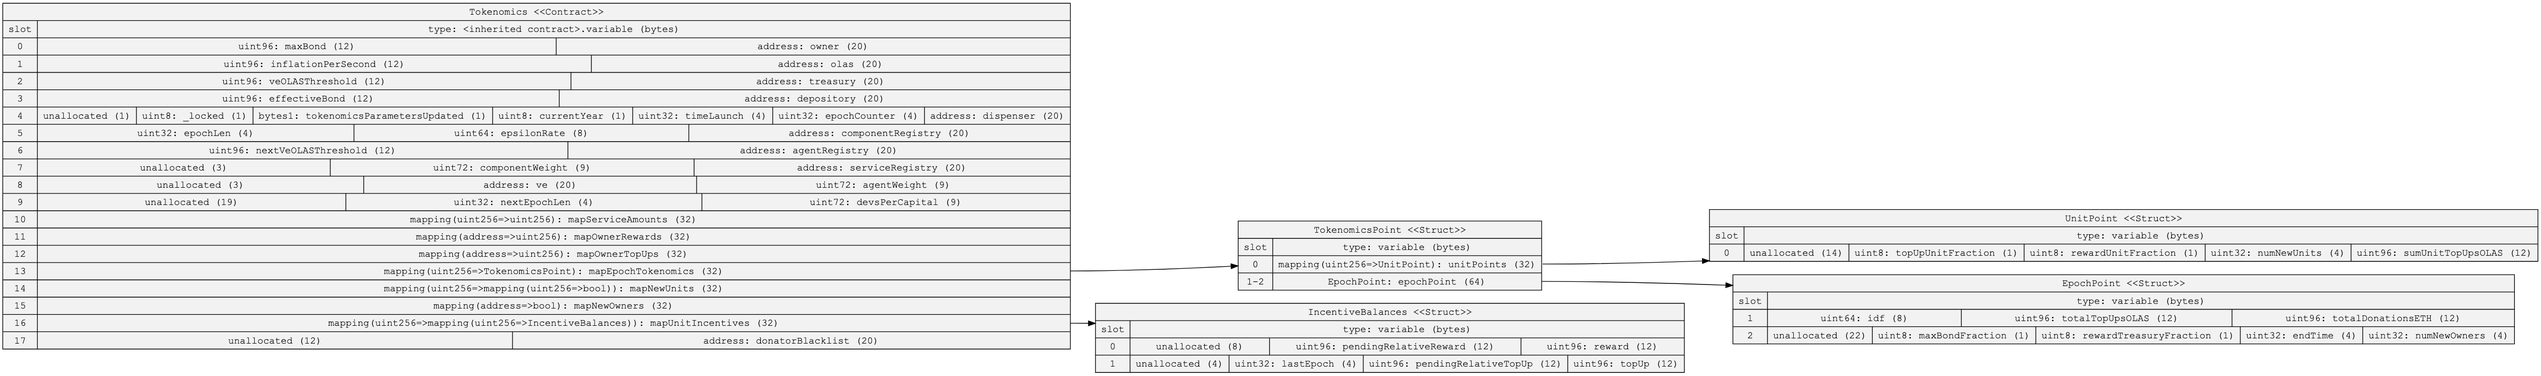
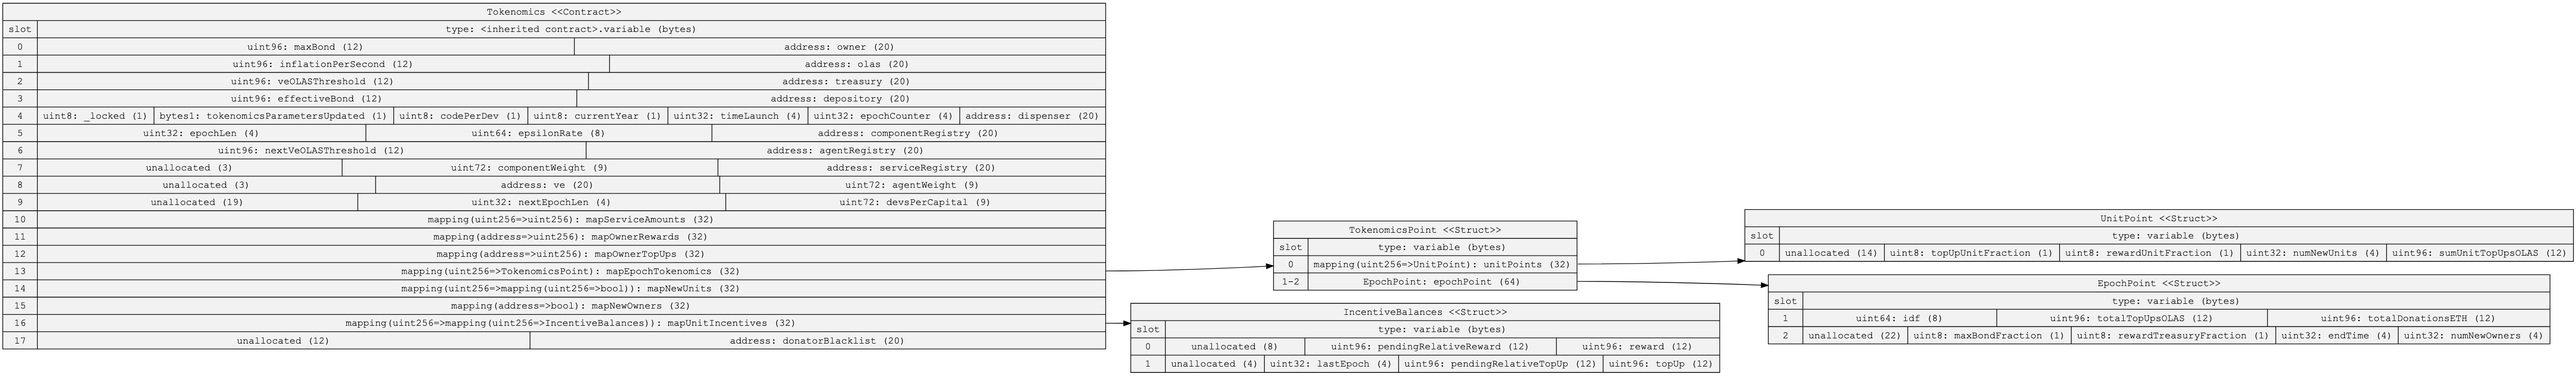
refactor: fKD calculation for the IDF value

diff --git a/test/Tokenomics.js b/test/Tokenomics.js
@@ -245,13 +245,13 @@ describe("Tokenomics", async () => {
             const lessThanMinEpochLen = Number(await tokenomics.MIN_EPOCH_LENGTH()) - 1;
             // Trying to change tokenomics parameters from a non-owner account address
             await expect(
-                tokenomics.connect(signers[1]).changeTokenomicsParameters(10, 10, epochLen * 2, 10, 10, 10)
+                tokenomics.connect(signers[1]).changeTokenomicsParameters(10, 10, 10, epochLen * 2, 10, 10, 10)
             ).to.be.revertedWithCustomError(tokenomics, "OwnerOnly");
 
             // Trying to set epoch length smaller than the minimum allowed value
-            await tokenomics.changeTokenomicsParameters(10, 10, lessThanMinEpochLen, 10, 10, 10);
+            await tokenomics.changeTokenomicsParameters(10, 10, 10, lessThanMinEpochLen, 10, 10, 10);
             // Trying to set epoch length bigger than one year
-            await tokenomics.changeTokenomicsParameters(10, 10, oneYear + 1, 10, 10, 10);
+            await tokenomics.changeTokenomicsParameters(10, 10, 10, oneYear + 1, 10, 10, 10);
             // Move one epoch in time and finish the epoch
             await helpers.time.increase(epochLen + 100);
             await tokenomics.checkpoint();
@@ -259,7 +259,7 @@ describe("Tokenomics", async () => {
             expect(await tokenomics.epochLen()).to.equal(epochLen);
 
             // Change epoch length to a bigger number
-            await tokenomics.changeTokenomicsParameters(10, 10, epochLen * 2, 10, 10, 10);
+            await tokenomics.changeTokenomicsParameters(10, 10, 10, epochLen * 2, 10, 10, 10);
             // The change will take effect in the next epoch
             expect(await tokenomics.epochLen()).to.equal(epochLen);
             // Move one epoch in time and finish the epoch
@@ -268,7 +268,7 @@ describe("Tokenomics", async () => {
             expect(await tokenomics.epochLen()).to.equal(epochLen * 2);
 
             // Change epoch len to a smaller value
-            await tokenomics.changeTokenomicsParameters(10, 10, epochLen, 10, 10, 10);
+            await tokenomics.changeTokenomicsParameters(10, 10, 10, epochLen, 10, 10, 10);
             // The change will take effect in the next epoch
             expect(await tokenomics.epochLen()).to.equal(epochLen * 2);
             // Move one epoch in time and finish the epoch
@@ -277,10 +277,10 @@ describe("Tokenomics", async () => {
             expect(await tokenomics.epochLen()).to.equal(epochLen);
 
             // Leave the epoch length untouched
-            await tokenomics.changeTokenomicsParameters(10, 10, epochLen, 10, 10, 10);
+            await tokenomics.changeTokenomicsParameters(10, 10, 10, epochLen, 10, 10, 10);
             // And then change back to the bigger one and change other parameters
             const genericParam = "1" + "0".repeat(17);
-            await tokenomics.changeTokenomicsParameters(genericParam, 10, epochLen + 100, 10, genericParam, genericParam);
+            await tokenomics.changeTokenomicsParameters(genericParam, 10, 10, epochLen + 100, 10, genericParam, genericParam);
             // The change will take effect in the next epoch
             expect(await tokenomics.epochLen()).to.equal(epochLen);
             // Move one epoch in time and finish the epoch
@@ -289,11 +289,11 @@ describe("Tokenomics", async () => {
             expect(await tokenomics.epochLen()).to.equal(epochLen + 100);
 
             // Trying to set epsilonRate bigger than 17e18
-            await tokenomics.changeTokenomicsParameters(0, "171"+"0".repeat(17), 0, 0, 0, 0);
+            await tokenomics.changeTokenomicsParameters(0, 0, "171"+"0".repeat(17), 0, 0, 0, 0);
             expect(await tokenomics.epsilonRate()).to.equal(10);
 
             // Trying to set all zeros
-            await tokenomics.changeTokenomicsParameters(0, 0, 0, 0, 0, 0);
+            await tokenomics.changeTokenomicsParameters(0, 0, 0, 0, 0, 0, 0);
             // Check that parameters were not changed
             expect(await tokenomics.epsilonRate()).to.equal(10);
             expect(await tokenomics.epochLen()).to.equal(epochLen + 100);
@@ -656,7 +656,7 @@ describe("Tokenomics", async () => {
 
             // Change the epoch length
             let newEpochLen = 2 * epochLen;
-            await tokenomics.changeTokenomicsParameters(0, 0, newEpochLen, 0, 0, 0);
+            await tokenomics.changeTokenomicsParameters(0, 0, 0, newEpochLen, 0, 0, 0);
             await helpers.time.increase(epochLen);
             await tokenomics.checkpoint();
 
@@ -669,7 +669,7 @@ describe("Tokenomics", async () => {
 
             // Change now maxBondFraction and epoch length at the same time
             await tokenomics.connect(deployer).changeIncentiveFractions(0, 0, 100, 0, 0);
-            await tokenomics.changeTokenomicsParameters(0, 0, newEpochLen, 0, 0, 0);
+            await tokenomics.changeTokenomicsParameters(0, 0, 0, newEpochLen, 0, 0, 0);
             await helpers.time.increase(epochLen);
             await tokenomics.checkpoint();
 
@@ -745,7 +745,7 @@ describe("Tokenomics", async () => {
             snapshot = await helpers.takeSnapshot();
 
             // Change the epoch length
-            await tokenomics.changeTokenomicsParameters(0, 0, newEpochLen, 0, 0, 0);
+            await tokenomics.changeTokenomicsParameters(0, 0, 0, newEpochLen, 0, 0, 0);
             // Calculate the maxBond manually and compare with the tokenomics one
             initMaxBond = await tokenomics.maxBond();
             inflationPerSecond = ethers.BigNumber.from(await tokenomics.inflationPerSecond());
@@ -769,7 +769,7 @@ describe("Tokenomics", async () => {
 
             // Change now maxBondFraction and epoch length at the same time
             await tokenomics.connect(deployer).changeIncentiveFractions(0, 0, 100, 0, 0);
-            await tokenomics.changeTokenomicsParameters(0, 0, newEpochLen, 0, 0, 0);
+            await tokenomics.changeTokenomicsParameters(0, 0, 0, newEpochLen, 0, 0, 0);
             // Calculate the maxBond manually and compare with the tokenomics one
             initMaxBond = await tokenomics.maxBond();
             inflationPerSecond = ethers.BigNumber.from(await tokenomics.inflationPerSecond());
@@ -828,7 +828,7 @@ describe("Tokenomics", async () => {
 
             let snapshotInternal = await helpers.takeSnapshot();
             // Try to change the epoch length now such that the next epoch will immediately have the year change
-            await tokenomics.changeTokenomicsParameters(0, 0, 2 * epochLen, 0, 0, 0);
+            await tokenomics.changeTokenomicsParameters(0, 0, 0, 2 * epochLen, 0, 0, 0);
             // Move to the end of epoch and check the updated epoch length
             await helpers.time.increase(epochLen);
             await tokenomics.checkpoint();
@@ -843,7 +843,7 @@ describe("Tokenomics", async () => {
             await tokenomics.checkpoint();
 
             // The maxBond lock flag must be set to true, now try to change the epochLen
-            await tokenomics.changeTokenomicsParameters(0, 0, epochLen + 100, 0, 0, 0);
+            await tokenomics.changeTokenomicsParameters(0, 0, 0, epochLen + 100, 0, 0, 0);
             // Try to change the maxBondFraction as well
             await tokenomics.changeIncentiveFractions(30, 40, 60, 40, 0);
 
